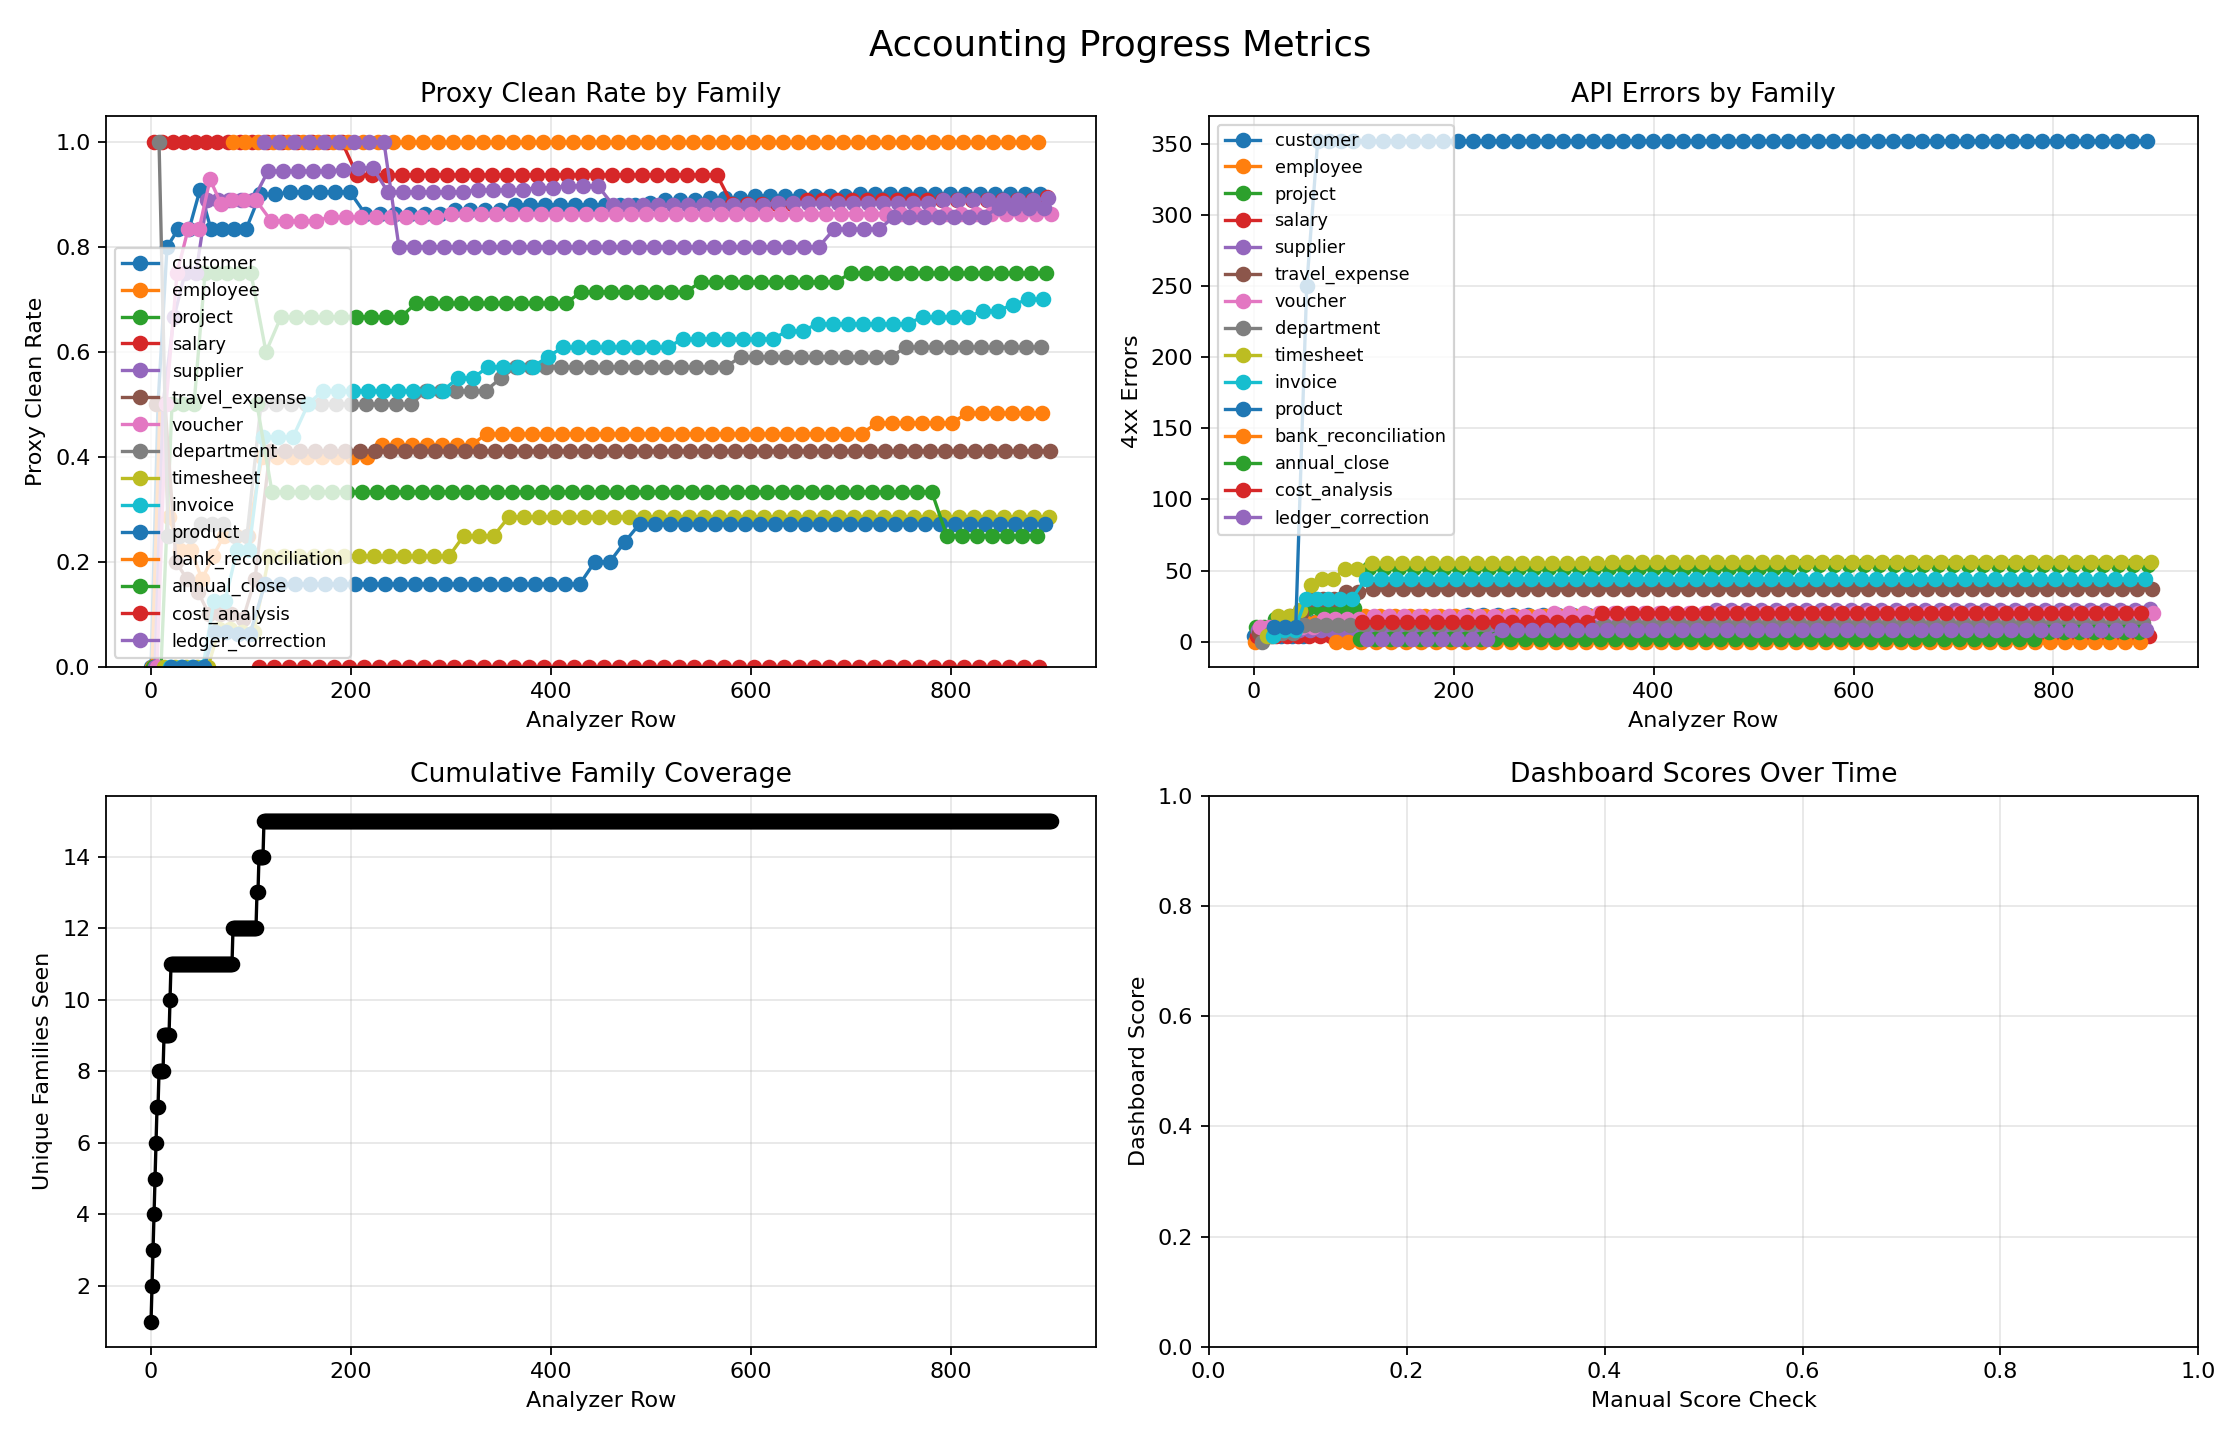
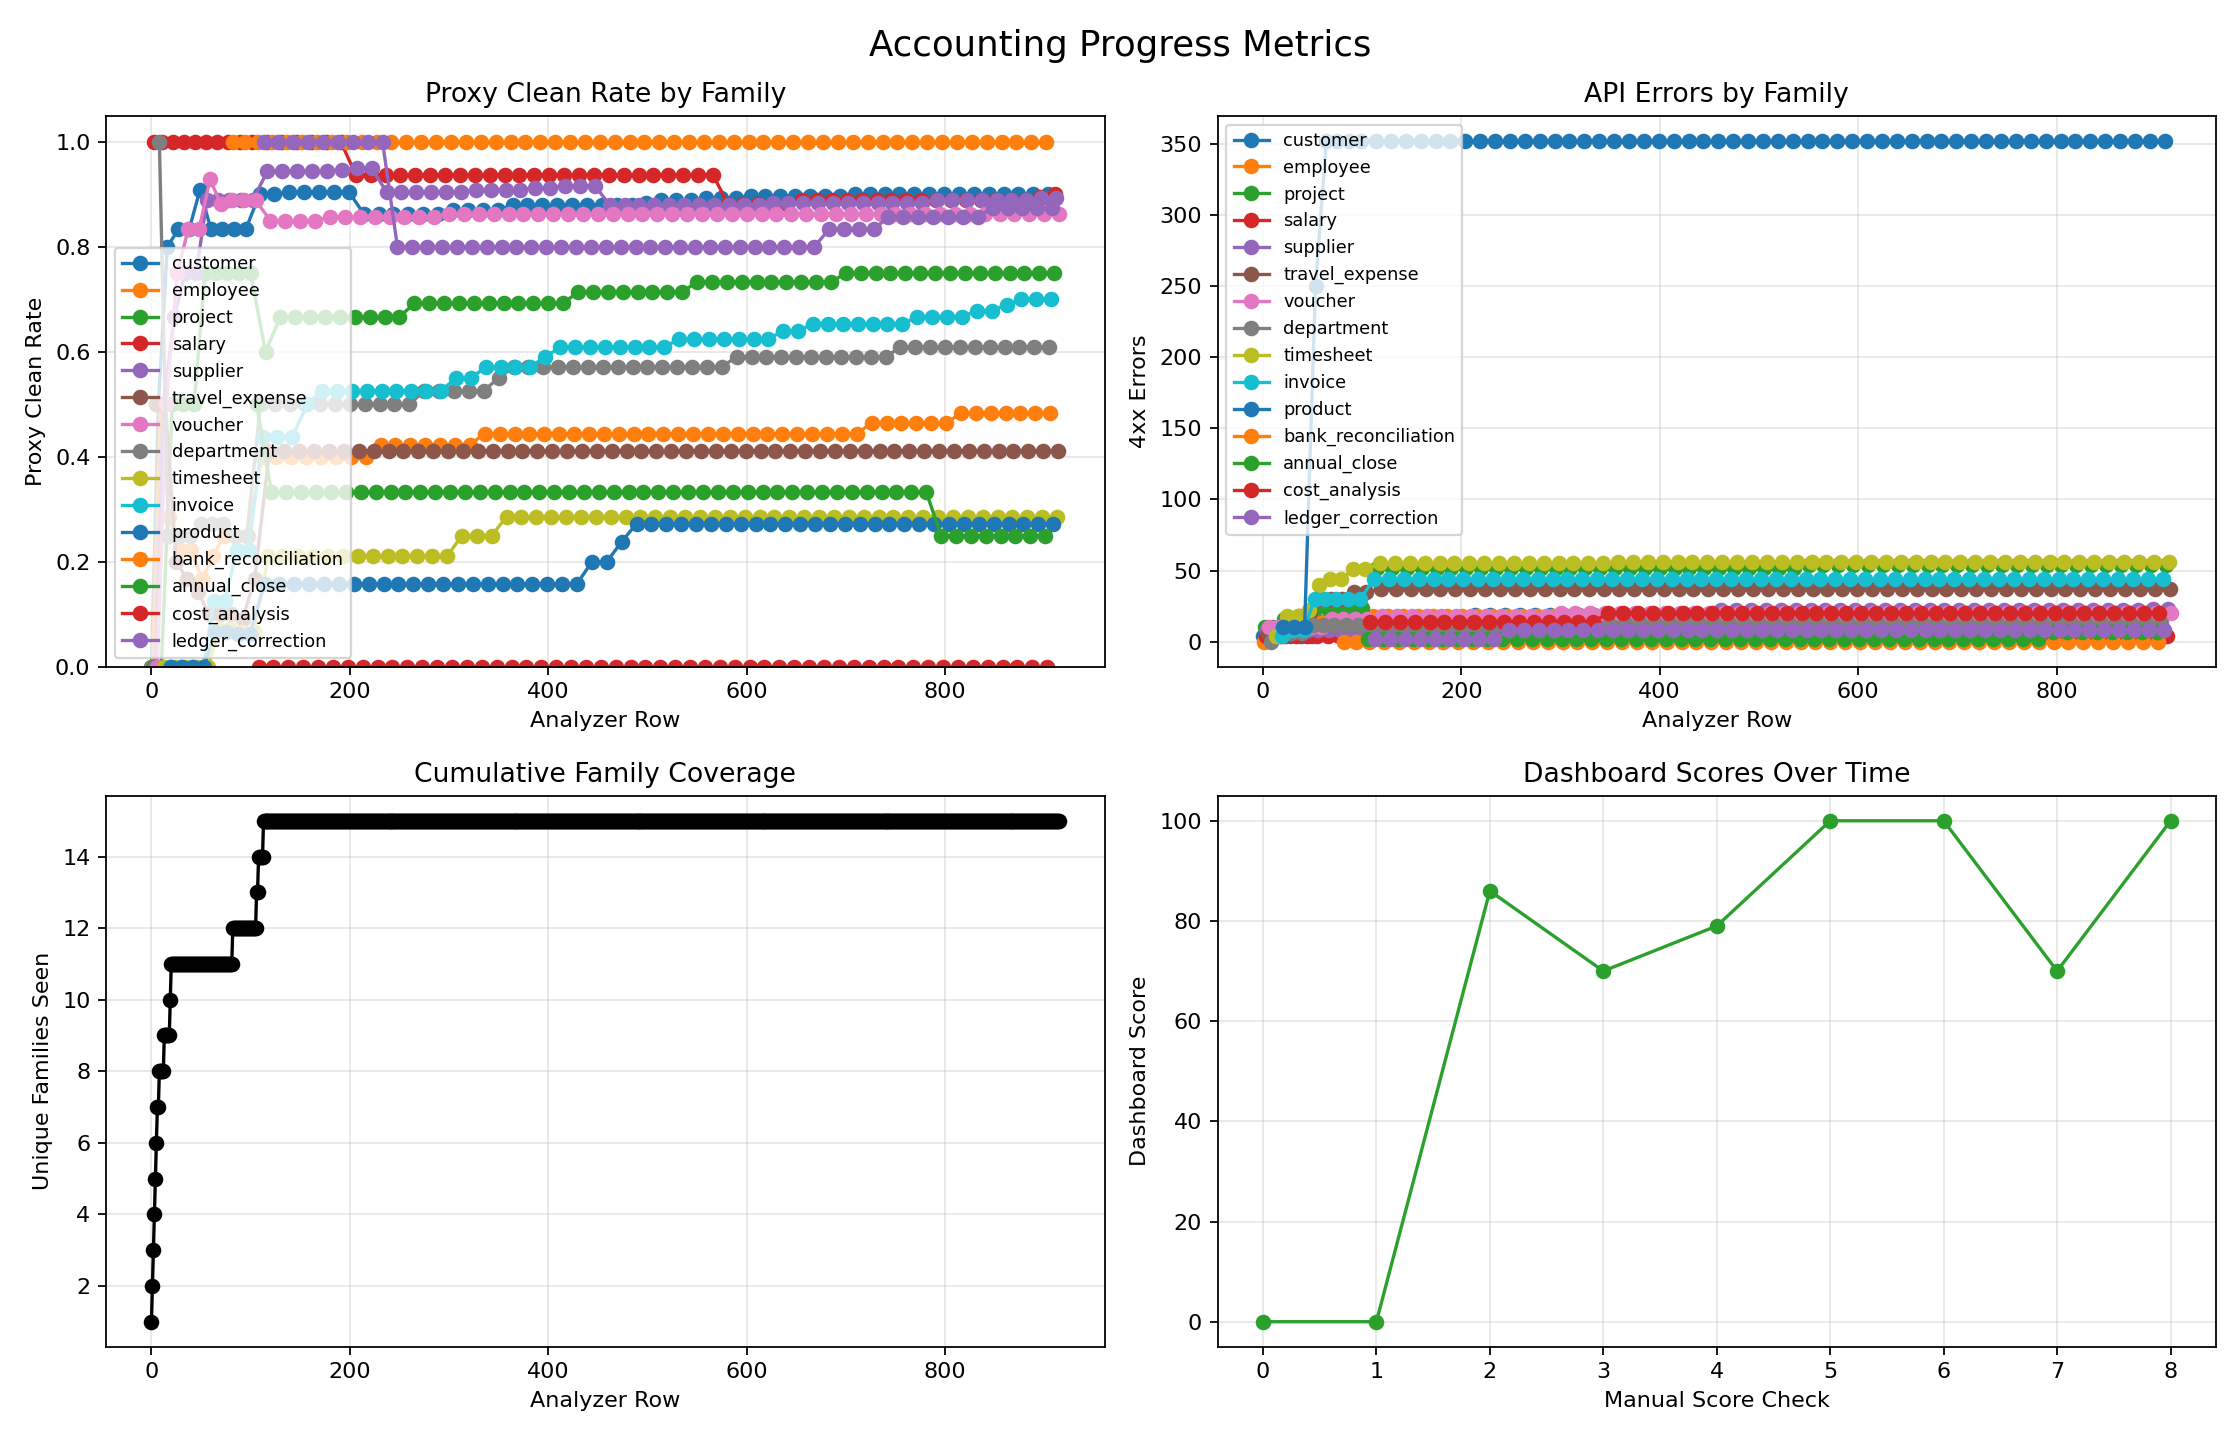
feat: sync accounting dashboard scores

diff --git a/tasks/accounting/sync_dashboard_scores.py b/tasks/accounting/sync_dashboard_scores.py
@@ -1,0 +1,217 @@
+#!/usr/bin/env python3
+"""Sync visible Tripletex dashboard results into dashboard_scores.tsv.
+
+This bridges the human-visible dashboard with the local `/tmp/accounting-logs`
+so the accounting tracker can correlate real task outcomes with log-derived
+signals.
+"""
+
+from __future__ import annotations
+
+import argparse
+import asyncio
+import csv
+import json
+import re
+from datetime import datetime, timezone
+from pathlib import Path
+
+CDP_URL = 'http://localhost:9222'
+ROOT = Path(__file__).resolve().parents[2]
+TASK_DIR = ROOT / 'tasks' / 'accounting'
+DEFAULT_LOG_DIR = Path('/tmp/accounting-logs')
+DEFAULT_TRACKER = TASK_DIR / 'dashboard_scores.tsv'
+HEADER = [
+    'recorded_at',
+    'log_ts',
+    'family',
+    'dashboard_score',
+    'notes',
+    'api_calls',
+    'api_errors',
+    'successful_writes',
+    'attachment_present',
+    'prompt_preview',
+]
+
+
+def parse_args() -> argparse.Namespace:
+    parser = argparse.ArgumentParser()
+    parser.add_argument('--log-dir', type=Path, default=DEFAULT_LOG_DIR)
+    parser.add_argument('--tracker', type=Path, default=DEFAULT_TRACKER)
+    parser.add_argument('--limit', type=int, default=20, help='Max visible dashboard task results to ingest')
+    parser.add_argument('--dry-run', action='store_true')
+    return parser.parse_args()
+
+
+def ensure_header(path: Path) -> None:
+    if path.exists():
+        return
+    path.write_text('\t'.join(HEADER) + '\n', encoding='utf-8')
+
+
+def successful_writes(calls: list[dict]) -> int:
+    return sum(1 for call in calls if call.get('method') in {'POST', 'PUT', 'DELETE'} and 200 <= int(call.get('status', 0)) < 300)
+
+
+def load_existing_log_ts(path: Path) -> set[str]:
+    if not path.exists():
+        return set()
+    with path.open(encoding='utf-8', newline='') as handle:
+        rows = csv.DictReader(handle, delimiter='\t')
+        return {row.get('log_ts', '').strip() for row in rows if row.get('log_ts')}
+
+
+def find_matching_log(log_dir: Path, utc_time: str) -> dict | None:
+    logs = sorted(log_dir.glob('*.json'))
+    logs = [path for path in logs if path.name != 'summary.jsonl']
+    try:
+        hour, minute = (int(part) for part in utc_time.split(':', 1))
+    except ValueError:
+        return None
+    for path in reversed(logs):
+        payload = json.loads(path.read_text(encoding='utf-8'))
+        ts = payload.get('timestamp', '')
+        if len(ts) < 15 or not ts.startswith(f'20260321_{hour:02d}'):
+            continue
+        ts_minute = int(ts[13:15])
+        if abs(ts_minute - minute) > 3:
+            continue
+        calls = ((payload.get('api_stats') or {}).get('calls') or [])
+        return {
+            'log_ts': ts,
+            'family': ((payload.get('plan') or {}).get('family') or 'unknown'),
+            'prompt': (payload.get('prompt') or '')[:180],
+            'api_calls': (payload.get('api_stats') or {}).get('total_calls', 0),
+            'api_errors': (payload.get('api_stats') or {}).get('errors_4xx', 0),
+            'successful_writes': successful_writes(calls),
+            'attachment_present': bool(payload.get('files')),
+        }
+    return None
+
+
+def cet_to_utc_time(cet_text: str) -> str | None:
+    try:
+        dt = datetime.strptime(cet_text, '%I:%M %p')
+    except ValueError:
+        return None
+    hour = dt.hour - 1
+    if hour < 0:
+        hour += 24
+    return f'{hour:02d}:{dt.minute:02d}'
+
+
+def parse_blocks(text: str, limit: int) -> list[dict]:
+    idx = text.find('Recent Results')
+    if idx < 0:
+        return []
+    results_text = text[idx:]
+    blocks = re.split(r'(?=Task \(\d)', results_text)
+    blocks = [block for block in blocks if block.startswith('Task (')]
+    parsed = []
+    for block in blocks[:limit]:
+        match = re.match(
+            r'Task \((\d+\.?\d*)/(\d+)\)\s*\n(\d{2}:\d{2} [AP]M) · ([\d.]+s)\s*\n[\d.]+/\d+ \((\d+)%\)',
+            block,
+        )
+        if not match:
+            continue
+        points, max_points, cet_time, duration, pct = match.groups()
+        checks = re.findall(r'Check (\d+): (passed|failed)', block)
+        parsed.append(
+            {
+                'points': points,
+                'max_points': max_points,
+                'cet_time': cet_time,
+                'duration': duration,
+                'pct': float(pct),
+                'checks': checks,
+            }
+        )
+    return parsed
+
+
+async def collect_dashboard_rows(args: argparse.Namespace) -> list[dict]:
+    from playwright.async_api import async_playwright
+
+    playwright = await async_playwright().start()
+    try:
+        browser = await playwright.chromium.connect_over_cdp(CDP_URL)
+        page = None
+        for context in browser.contexts:
+            for candidate in context.pages:
+                if 'submit/tripletex' in candidate.url:
+                    page = candidate
+                    break
+            if page:
+                break
+        if page is None:
+            raise RuntimeError('No submit/tripletex tab found in Brave')
+
+        await page.evaluate(
+            '''() => {
+                const buttons = Array.from(document.querySelectorAll('button'));
+                const taskButtons = buttons.filter(button => /Task \(/.test(button.textContent));
+                taskButtons.forEach(button => {
+                    const next = button.nextElementSibling;
+                    if (!next || !next.textContent.includes('Check')) {
+                        button.click();
+                    }
+                });
+            }'''
+        )
+        await asyncio.sleep(1.0)
+        text = await page.evaluate('() => document.body.innerText')
+    finally:
+        await playwright.stop()
+
+    existing = load_existing_log_ts(args.tracker)
+    rows = []
+    for block in parse_blocks(text, args.limit):
+        utc_time = cet_to_utc_time(block['cet_time'])
+        if utc_time is None:
+            continue
+        log_match = find_matching_log(args.log_dir, utc_time)
+        if not log_match:
+            continue
+        log_ts = log_match['log_ts']
+        if log_ts in existing:
+            continue
+        passed = sum(1 for _, state in block['checks'] if state == 'passed')
+        failed = sum(1 for _, state in block['checks'] if state == 'failed')
+        rows.append(
+            {
+                'recorded_at': datetime.now(timezone.utc).isoformat(),
+                'log_ts': log_ts,
+                'family': log_match['family'],
+                'dashboard_score': block['pct'],
+                'notes': f"task={block['points']}/{block['max_points']}; cet={block['cet_time']}; duration={block['duration']}; checks={passed}P/{failed}F",
+                'api_calls': log_match['api_calls'],
+                'api_errors': log_match['api_errors'],
+                'successful_writes': log_match['successful_writes'],
+                'attachment_present': str(log_match['attachment_present']).lower(),
+                'prompt_preview': log_match['prompt'],
+            }
+        )
+        existing.add(log_ts)
+    return rows
+
+
+def write_rows(path: Path, rows: list[dict]) -> None:
+    ensure_header(path)
+    with path.open('a', encoding='utf-8', newline='') as handle:
+        writer = csv.DictWriter(handle, fieldnames=HEADER, delimiter='\t')
+        for row in rows:
+            writer.writerow(row)
+
+
+async def async_main() -> None:
+    args = parse_args()
+    rows = await collect_dashboard_rows(args)
+    if rows and not args.dry_run:
+        write_rows(args.tracker, rows)
+    print(json.dumps({'rows_added': len(rows), 'tracker': str(args.tracker), 'dry_run': args.dry_run, 'families': [row['family'] for row in rows]}, ensure_ascii=False, indent=2))
+
+
+if __name__ == '__main__':
+    asyncio.run(async_main())

diff --git a/tasks/accounting/program.md b/tasks/accounting/program.md
@@ -125,6 +125,7 @@ Autoresearch should automate these tasks:
 8. Track unseen families versus known families.
 9. Flag attachment-based tasks, especially if `content_base64` is empty.
 10. Produce a scored priority queue so the weakest high-frequency families get fixed first.
+11. Sync visible dashboard task outcomes into `dashboard_scores.tsv` so Pareto and progress views reflect real scores.
 
 ## The Loop
 
@@ -188,6 +189,12 @@ This updates:
 - `tasks/accounting/analysis/pareto_dashboard_vs_errors.json`
 - `tasks/accounting/analysis/priority_queue.json`
 - `tasks/accounting/analysis/priority_queue.md`
+
+Before refreshing, pull visible dashboard results into the tracker with:
+
+```bash
+python tasks/accounting/sync_dashboard_scores.py
+```
 
 ## Bottom Line
 
